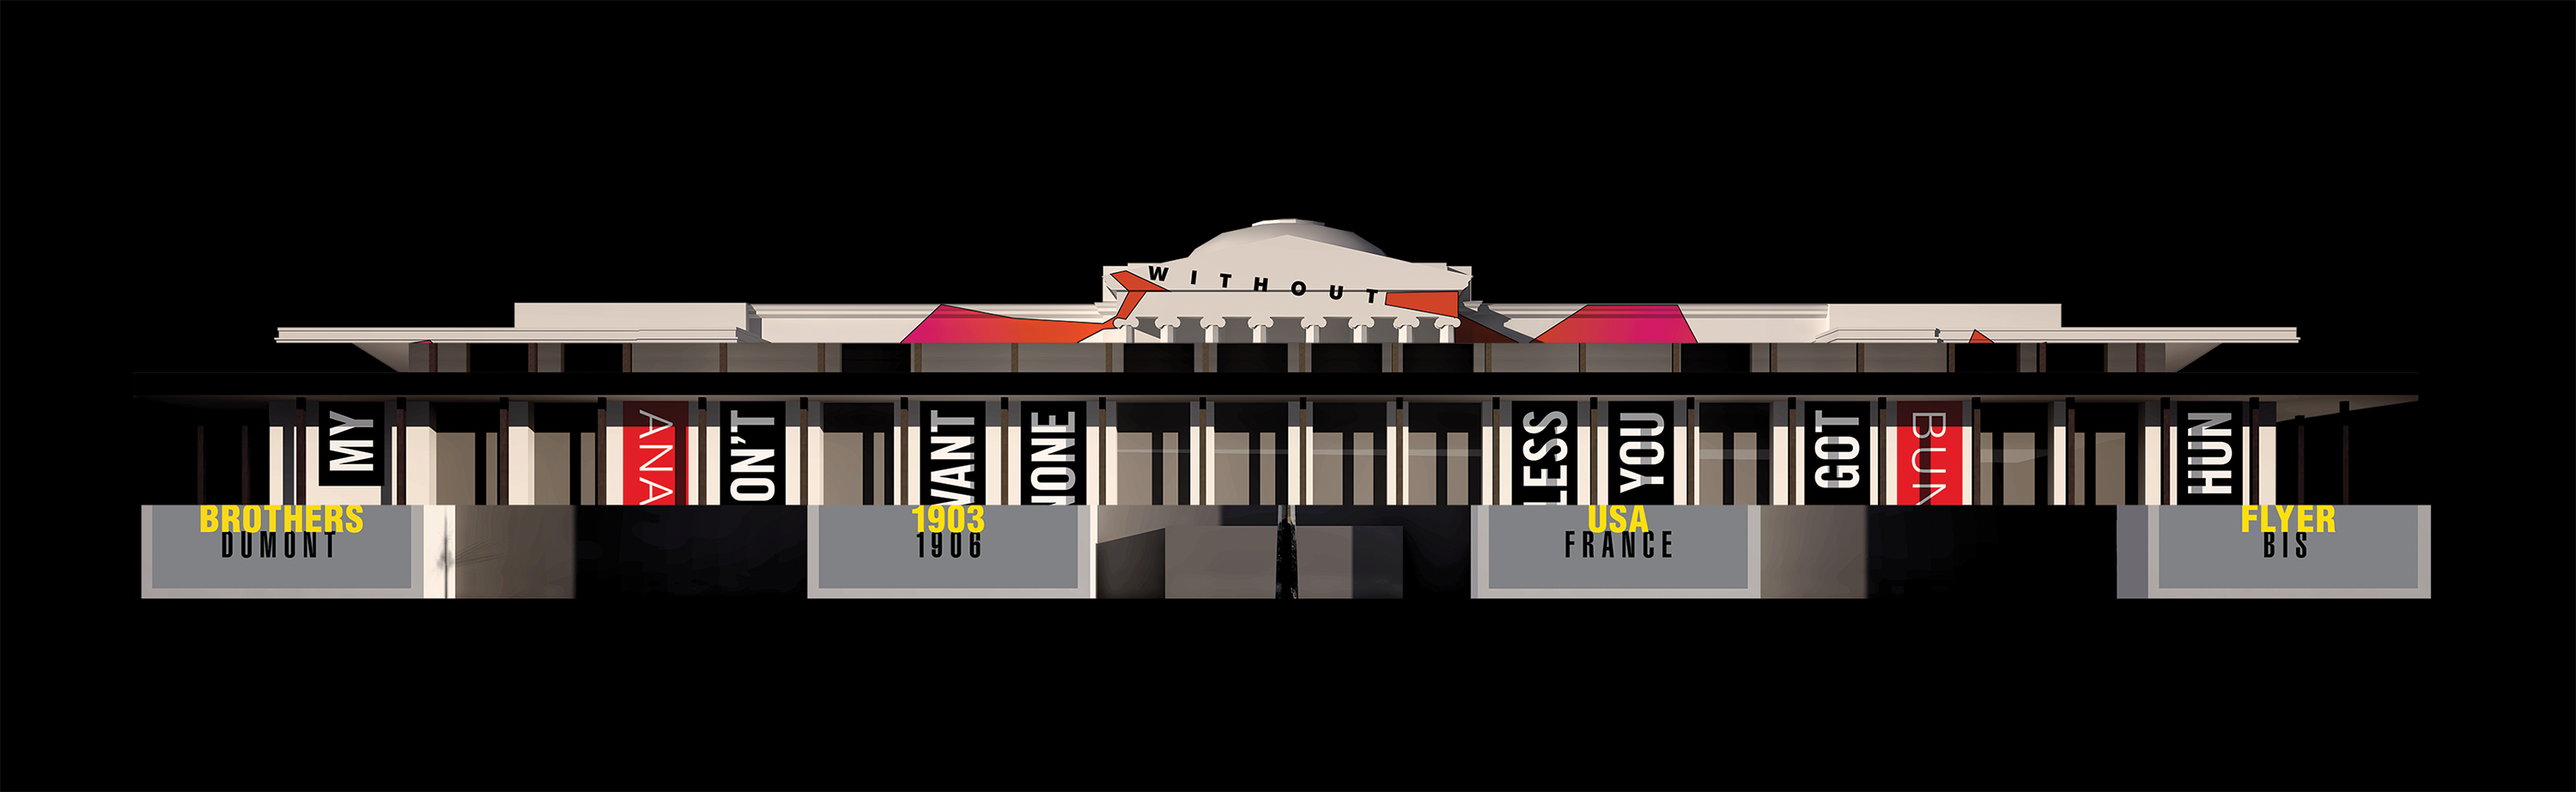
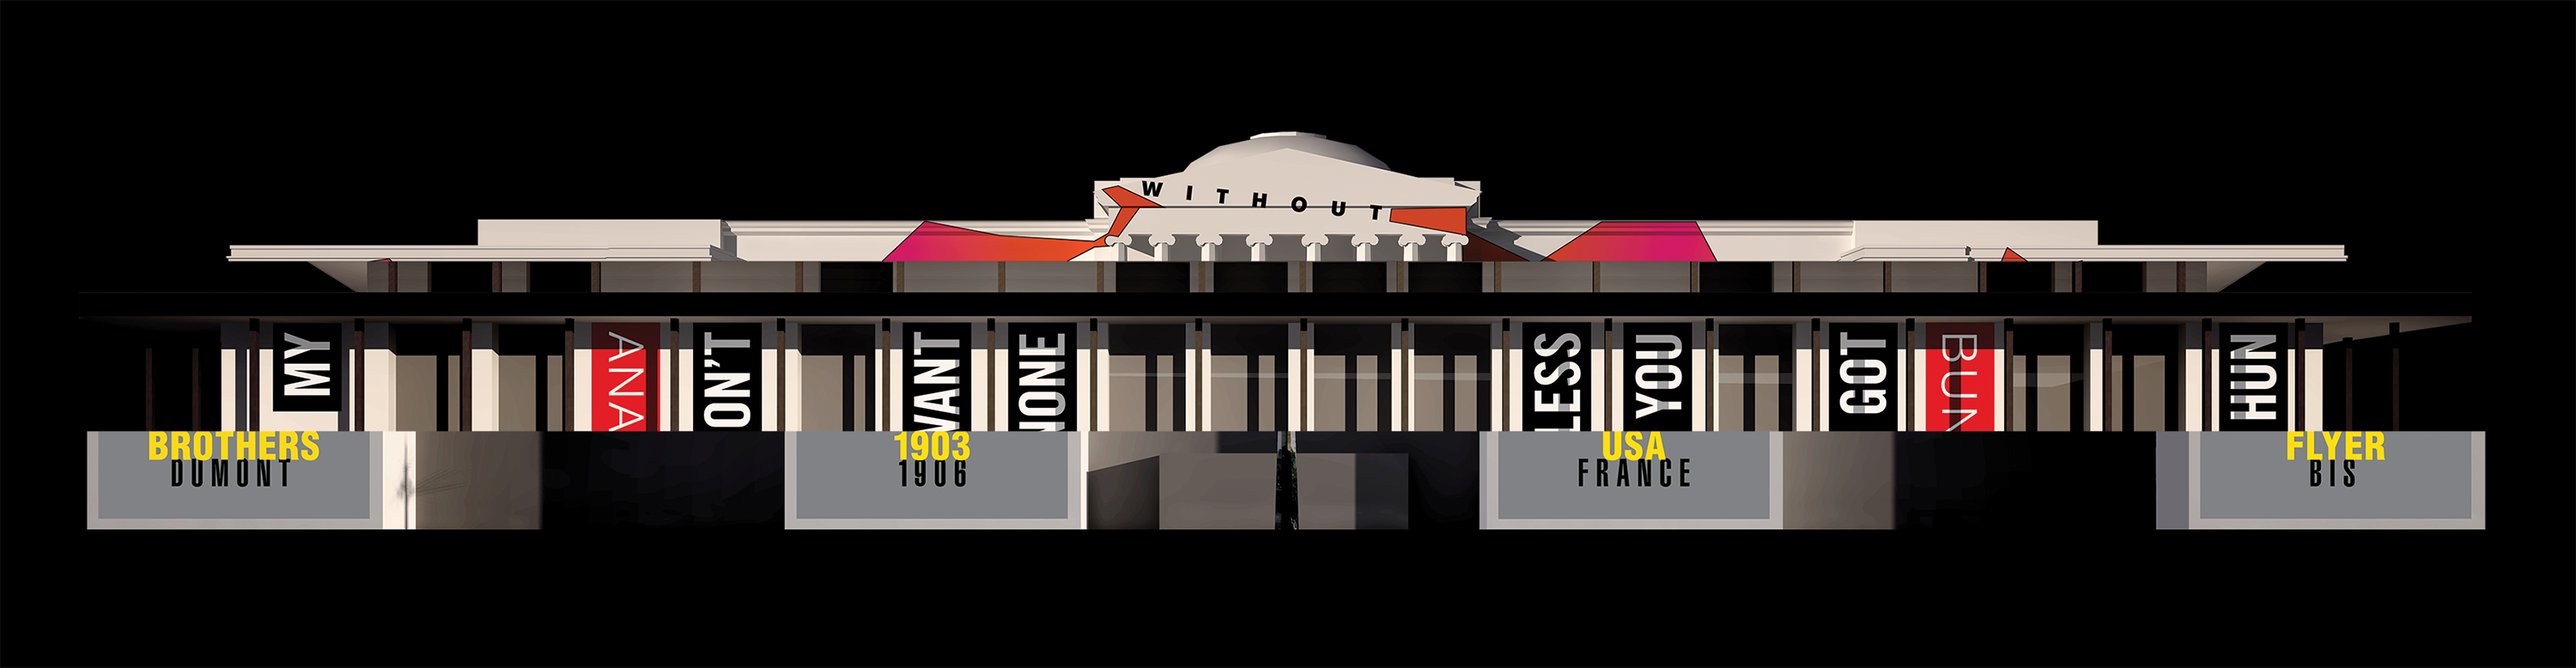
finalizes tioa modal

Changed region(s): [[0.031, 0.1851, 0.992, 0.8021]]

diff --git a/_work/typographic-interventions-on-architecture.html b/_work/typographic-interventions-on-architecture.html
@@ -6,9 +6,9 @@ season: 2014
 image: typographic-interventions.png
 order: 8
 category: Typography & 3D Modeling
-description: "Given its complex dual nature as both art and science, architecture is often marginalized from other art forms. But even where architecture is art, and perhaps because of its undeniable materiality and scale, its interaction with other art forms is scarce and difficult. Music, painting, cinema, dance: these can frequently walk hand-in-hand. But not architecture. With this in mind, the goal here was to create artistic interventions that would interact with architecture and use it as an essential part of the compositions. The straightforward nature of typography, its malleability, low impact, temporary possibilities, variety in aesthetics and, above all, its powerful way of delivering a message were therefore a great tool.
+description: "Given its dual nature as both art and science, architecture is often marginalized from other art forms. But even where architecture is art, perhaps because of its materiality and scale, its interaction with other art forms is scarce and difficult. Music, painting, cinema, dance: these can frequently walk hand-in-hand. But not architecture. With this in mind, the first goal for this project was to create artistic interventions that would interact with architecture and use it as an essential part of the composition. The straightforward nature of typography, its flexibility, low impact, temporary nature, variety in aesthetics and, above all, its powerful way of delivering a message proved to be a great tool for this purpose.
 
-<p>The second goal was to do an uncommitted exercise in argumentation and critical thinking—uncommitted because the studies were not based on confirmed documented data, as that was not the goal. The main focus was to fly free during the (creative) process: reflect upon a certain circulating story regarding the chosen architecture and create a provocative message on it with the use of type. The case studies selected were buildings that could be easily photographed (easily accessed) and had enough information online regarding its physicality so that 3D models could be produced for final images.</p>"
+<p>The second goal was to exercise, in an uncommitted way, critical thinking—uncommitted because the studies were not based on documented data, as that was not the intention. The main focus was to fly free during the (creative) process: reflect upon a certain circulating story regarding the chosen building and create a provocative message on it utilizing type. The case studies that follow were selected for being buildings that could be easily photographed—and easily accessed—and had enough information online regarding its physicality so that 3d models could be produced for final images.</p>"
 ---
 
 <section id="typographic-interventions">
@@ -29,13 +29,12 @@ description: "Given its complex dual nature as both art and science, architectur
       <div class="row">
         <div class="col-md-6 col-md-push-3">
           <div class="text-description">
-            <p>Given its complex dual nature as both art and science, architecture is often marginalized from other art forms. But even where architecture is art, perhaps because of its materiality and scale, its interaction with other art forms is scarce and difficult. Music, painting, cinema, dance: these can frequently walk hand-in-hand. But not architecture. With this in mind, the first goal for this project was to create artistic interventions that would interact with architecture and use it as an essential part of compositions. The straightforward nature of typography, its flexibility, low impact, temporary nature, variety in aesthetics and, above all, its powerful way of delivering a message proved to be a great tool.</p>
-            <p>The second goal was to exercise, in an uncommitted way, critical thinking—uncommitted because the studies were not based on documented data, as that was not the intention. The main focus was to fly free during the (creative) process: reflect upon a certain circulating story regarding the chosen architecture and create a provocative message utilizing type. The case studies that follow were selected for being buildings that could be easily photographed (easily accessed) and had enough information online regarding its physicality so that 3d models could be produced for final images. The four case studies are:</p>
+            <p>Given its dual nature as both art and science, architecture is often marginalized from other art forms. But even where architecture is art, perhaps because of its materiality and scale, its interaction with other art forms is scarce and difficult. Music, painting, cinema, dance: these can frequently walk hand-in-hand. But not architecture. With this in mind, the first goal for this project was to create artistic interventions that would interact with architecture and use it as an essential part of the composition. The straightforward nature of typography, its flexibility, low impact, temporary nature, variety in aesthetics and, above all, its powerful way of delivering a message proved to be a great tool for this purpose.</p>
+            <p>The second goal was to exercise, in an uncommitted way, critical thinking—uncommitted because the studies were not based on documented data, as that was not the intention. The main focus was to fly free during the (creative) process: reflect upon a certain circulating story regarding the chosen building and create a provocative message on it utilizing type. The case studies that follow were selected for being buildings that could be easily photographed—and easily accessed—and had enough information online regarding its physicality so that 3d models could be produced for final images. The three case studies are:</p>
             <ul>
               <div class="list-item"><span class="symbol">&#10137;</span><li><a href="" id="nga-anchor">The National Gallery of Art</a></li></div>
               <div class="list-item"><span class="symbol">&#10137;</span><li><a href="" id="as-anchor">The National Air and Space Museum</a></li></div>
               <div class="list-item"><span class="symbol">&#10137;</span><li><a href="" id="kc-anchor">The John F. Kennedy Center for the Performing Arts</a></li></div>
-              <div class="list-item"><span class="symbol">&#10137;</span><li><a href="" id="sc-anchor">The Smithsonian Institution Building</a></li></div>
             </ul>
           </div>
         </div>
@@ -60,11 +59,11 @@ description: "Given its complex dual nature as both art and science, architectur
       <div class="row">
         <div class="col-md-6 col-md-push-3">
           <div class="text-description">
-            <p>Some think of graffiti as a mere act of vandalism, represented by “tags”—a stylized handwriting of a person’s name, usually done to property, private or public, without permission. While tags are its original and most popular form, graffiti art has evolved to become much more. It is common to spot colourful, provocative, spray-painted pieces in urban city spaces. Whilst some consider them a nuisance, its unique looks and elements—with intricate compositions and, more frequently than not, provocative content—have contributed to its recognition in the art world as a legitimate (urban) art form.</p>
+            <p>Some think of graffiti as a mere act of vandalism, represented by “tags”—a stylized handwriting of a person’s name, usually done to property, private or public, without permission. While tags are its original and most popular form, graffiti art has evolved to become much more. It is common to spot colourful, provocative, spray-painted pieces in urban city spaces. While some consider them a nuisance, its unique looks and elements—with intricate compositions and provocative content—have contributed to its recognition in the art world as a legitimate (urban) art form.</p>
 
-            <p>While tags have very little visual appeal, more complex pieces are aesthetically captivating. The planning—including finding the right location and sketching a composition—, the incorporation of great diversity of artistic elements, and the in-situ improvisations show the extent of the artistic complexity involved in creating these urban pieces. <i>Wildstyle</i>, the calligraphic style of interlocking letters, for instance, is an artist’s interpretation of the alphabet, and generally relies on the use of primary colors, fading, and foreground/background composition. As Kant puts it, the artist's intent is what defines if the work is or isn't art.</p>
+            <p>While tags have very little visual appeal, more complex pieces are aesthetically captivating. The planning—including finding the right location and sketching a composition—, the incorporation of great diversity of artistic elements, and the in-situ improvisations show the extent of the artistic complexity involved in creating these urban pieces. <i>Wildstyle</i>, the calligraphic style of interlocking letters, for instance, is an artist’s interpretation of the alphabet, and generally relies on the use of primary colors, fading, and foreground/background composition. As Kant puts it, the artist's intent is what defines if the work is or isn't considered art.</p>
 
-            <p>The case study shown here combines many of the singularities of graffiti: 1) A specific and singular alphabet, hand-written, bold in colors and shape; 2) Use of foreground and background composition; 3) Bold and vivid colors and gradient; 4) Protest message “Art Nation Without Representation” to communicate graffiti’s categorization as a yet marginalized art, not worthy of bigger museums and galleries; 5) Location: the outside, and not the inside, of an art museum. This is also in reference to the illegal and clandestine placing of these works on various facades in the urban environment.</p>
+            <p>The case study shown here combines many of the singularities of graffiti: 1) A specific and singular alphabet, hand-written, bold in colors and shape; 2) Use of foreground and background composition; 3) Vivid colors and gradient; 4) Protest message “Art Nation Without Representation”, illustrating graffiti’s categorization as a yet marginalized art, not worthy of bigger museums and galleries; 5) Location: the outside, rather than the inside, of an art museum. This is also in reference to the illegal and clandestine placing of these works on various facades in the urban environment.</p>
           </div>
         </div>
         <div class="col-md-3 col-md-pull-6">
@@ -99,7 +98,7 @@ description: "Given its complex dual nature as both art and science, architectur
 
             <p>The Wright Brothers flew earlier with no official witness, except for their own diary entry, and Santos Dumont took off on wheels before the Wrights did, earning a variety of prizes and official records in France. Santos Dumont’s flights in the 14-bis contributed to the development of aviation by publicly demonstrating the feasibility of heavier-than-air flight, which encouraged other pioneers in Europe to begin or quicken the pace of their experiments.</p>
 
-            <p>The case study shown here challenges the data officially displayed by the National Air and Space Museum by showing conflicting information regarding the first airplane inventor, date and place of feat, and air-craft name.</p>
+            <p>The case study shown here challenges the data officially displayed by the National Air and Space Museum by showing conflicting information regarding the name of the inventor of the first airplane, date and place of feat, and air-craft name.</p>
           </div>
         </div>
         <div class="col-md-3">
@@ -128,53 +127,14 @@ description: "Given its complex dual nature as both art and science, architectur
       <div class="row">
         <div class="col-md-6 col-md-push-3">
           <div class="text-description">
-            <p>The John F. Kennedy Memorial Center for the Performing Arts, known as the Kennedy Center, is the busiest performing arts facility in the US: it produces and presents, as stated online, “the greatest examples” of theater, dance, ballet, and music (orchestra, chamber, jazz, popular, and folk), in addition to multi-media performances for all ages. The Center contains three main venues: concert hall, opera house and theater, which host both national and international performances. These performances attract very selective audiences. The Center also has five smaller venues, with vast program offerings, for more popular attractions—and even free ones.</p>
-            <p>Despite its effort to expand its reach beyond the stereotypical arts-center member one might imagine (white, wealthy, and over 40), there’s still a lack of audience diversity. Significant artistic movements are left out or underrepresented: hip-hop, rap, street dance, latin music,to name a few, are strongly present in today’s American urban culture, but not in the Center’s seasonal programs.</p>
-            <p>The piece above features the chorus of Baby Got Back, by Sir Mix-a-Lot, displayed on the Center’s facade—its imposing and luxurious architecture and interior in contrast with raw, urban slang words. Formally, the words are placed as to interact and add to the already existing visual rhythm of the building’s facade.</p>
+            <p>The John F. Kennedy Memorial Center for the Performing Arts, known as the Kennedy Center, is the busiest performing arts facility in the US: it produces and presents, as stated online, “the greatest examples” of theater, dance, ballet, and music (orchestra, chamber, jazz, popular, and folk), in addition to multi-media performances for all ages. The Center contains three main venues: concert hall, opera house and theater, which host both national and international performances. These performances attract very selective audiences. The Center also has five smaller venues, with vast program offerings, for simpler attractions.</p>
+            <p>Despite efforts to expand its reach beyond the stereotypical arts-center member (white, wealthy, and over 40), there’s still a lack of audience diversity. Significant artistic movements are left out or underrepresented: hip-hop, rap, street dance, latin music,to name a few, are strongly present in today’s American urban culture, but not in the Center’s seasonal programs.</p>
+            <p>The piece above features the chorus of <i>Baby Got Back</i>, by Sir Mix-a-Lot, displayed on the Center’s facade—its imposing and luxurious architecture and interior in contrast with raw, urban slang words. Formally, the words are placed as to interact and add to the already existing visual rhythm of the building’s facade and columns.</p>
           </div>
         </div>
         <div class="col-md-3 col-md-pull-6">
           <div class="text-info align-right">
             <p>The John F. Kennedy Center for the Performing Arts is a performing arts center located on the Potomac River, at 2700 F St NW, adjacent to the Watergate complex in Washington, D.C.</p>
-          </div>
-        </div>
-      </div>
-    </div>
-  </div>
-
-  <div class="building" id="sc">
-    <div class="building-intro">
-      <div class="title-container">
-        <div class="container">
-          <h5>A Way People Speak In America So Not To Offend Whining Pussies</h5>
-        </div>
-      </div>
-      <div class="background-sc">
-        <div class="container">
-          <div class="row">
-            <div class="col-md-6 col-md-push-3">
-              <div class="owl-carousel owl-theme">
-                <img src="{{ site.baseurl }}/media/typographic-interventions/sc1.jpg">
-                <img src="{{ site.baseurl }}/media/typographic-interventions/sc2.jpg">
-                <img src="{{ site.baseurl }}/media/typographic-interventions/sc3.jpg">
-              </div>
-            </div>
-          </div>
-        </div>
-      </div>
-    </div>
-    <div class="container">
-      <div class="row">
-        <div class="col-md-6 col-md-offset-3">
-          <div class="text-description">
-            <p>Politically correct thinking is a way of saying “I see you”, it’s a way of ensuring those around are respected and heard, it’s a way of ensuring there’s no “lesser groups”. In promoting language “best-practices”, one is ideally trying to promote equality in treatment and rights. Politically correct thinking is one of the hallmarks of liberal, progressive society: the ability to understand and discuss different points of view without resorting to demeaning language and disparagement. It is all the more important in a society, like ours, of vast social and economic disparities.</p>
-            <p>However, the politically correct vocabulary is ever-changing and ever-growing. Pandering to every plea for <a href="http://www.academia.edu/6735062/politically_correct_dictionary" target="_blank">politically correct terminology</a> may be close to impossible. Can politically correct rigor weaken the equalitarian cause rather than strengthen it?</p>
-            <p>In this study, typography is projected on the facade of the Smithsonian Institution Building, known as the Smithsonian Castle, which houses administrative offices. The Institution has been involved in several controversies in the past, with its conducts and curation of certain exhibitions being labeled as politically correct (e.g., the <a href="http://www.nytimes.com/1994/10/01/us/smithsonian-substantially-alters-enola-gay-exhibit-after-criticism.html" target="_blank">Enola Gay Exhibit</a> and <a href="https://en.wikipedia.org/wiki/The_West_as_America_Art_Exhibition" target="_blank">The West as America Exhibition</a>). There’s also a funny urban legend regarding the Museum of Natural History and the enormous pachyderm that greets visitors atop a recreated chunk of his natural habitat. The elephant that stands in the lobby of the museum is an impressive and beautiful example of masculinity—but after much controversy and complaint, according to rumors, the elephant’s genitals were “modified" as to not be offensive to more delicate viewers.</p>
-          </div>
-        </div>
-        <div class="col-md-3">
-          <div class="text-info">
-            <p>The Smithsonian Institution Building, also known as "The Castle", houses information center and administrative offices. It is located near the National Mall in Washington, D.C. behind the National Museum of African Art, at 1000 Jefferson Dr SW.</p>
           </div>
         </div>
       </div>

diff --git a/_sass/_typographic-interventions.scss b/_sass/_typographic-interventions.scss
@@ -63,11 +63,11 @@ $transition-time:.2s;
   font-family:$regular;
 
   .intro{
-    margin-bottom:9.5rem;
+    margin-bottom:8.5rem;
     
     .hero{
       height:calc(100vh - 55px);
-      background: #060708;
+      background: #000;
       margin-bottom:35px;
       display: flex;
       flex-direction: column;
@@ -76,7 +76,7 @@ $transition-time:.2s;
     .intro-headline{
       color:#fff;
       text-align: center;
-      padding:75px 0px;
+      padding:70px 0px 30px 0;
       text-transform: uppercase;
       // background:red;
     }
@@ -155,10 +155,10 @@ $transition-time:.2s;
   }
 
   .building{
-    margin-bottom:7.5rem;
+    margin-bottom:6.5rem;
 
     .title-container{
-      background:#060708;
+      background:#000;
     }
 
     h5{
@@ -211,21 +211,6 @@ $transition-time:.2s;
       }
     }
 
-  }
-
-  .background-sc{
-    position:relative;
-  }
-  
-  .background-sc:after{
-    position: absolute;
-    content: '';
-    top:0;
-    left:0;
-    width:100%;
-    height:calc(100% - 39px);
-    background:#59585E;
-    // background: #000;
   }
   
   hr{

diff --git a/_work/quote-generator.html b/_work/quote-generator.html
@@ -53,7 +53,7 @@ image: quote-generator.png
                 <div class="column-title">Hates Them Quotes</div>
             </div>
             <div class="text2">
-              Well, you’re just too cool for quotes: so stick around and be reassured of your awesomeness by dissing these pieces of wisdom.
+              Well, you’re just too cool for quotes, so stick around and be reassured of your awesomeness by dissing these pieces of wisdom.
             </div>
           </div>
         </div>
